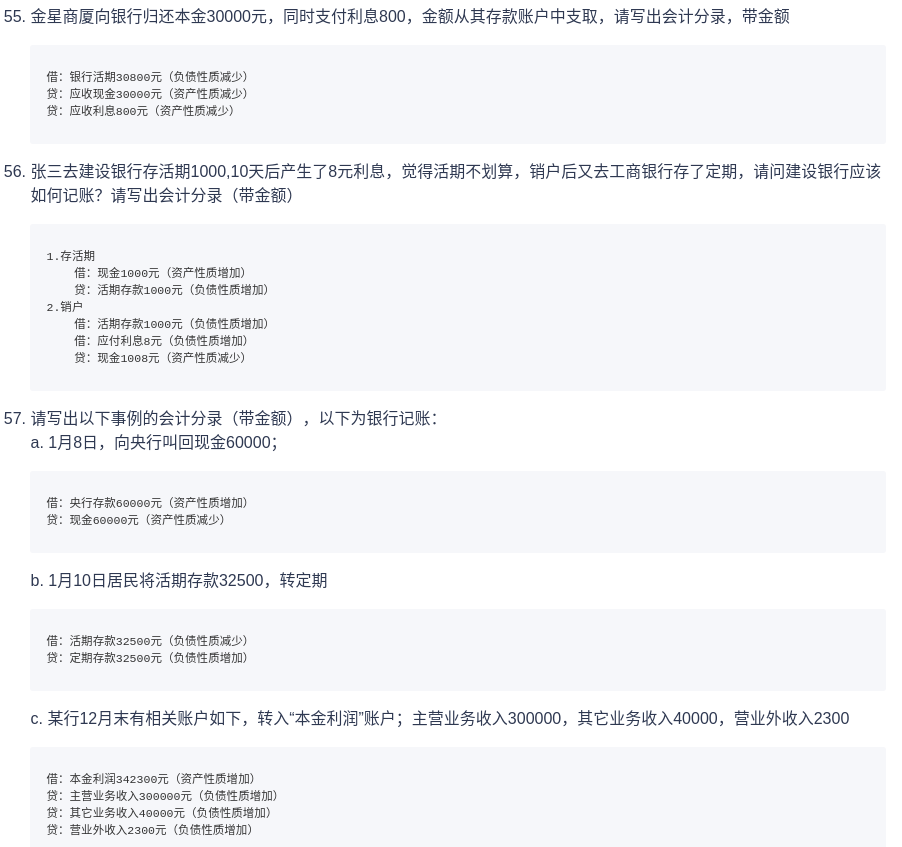
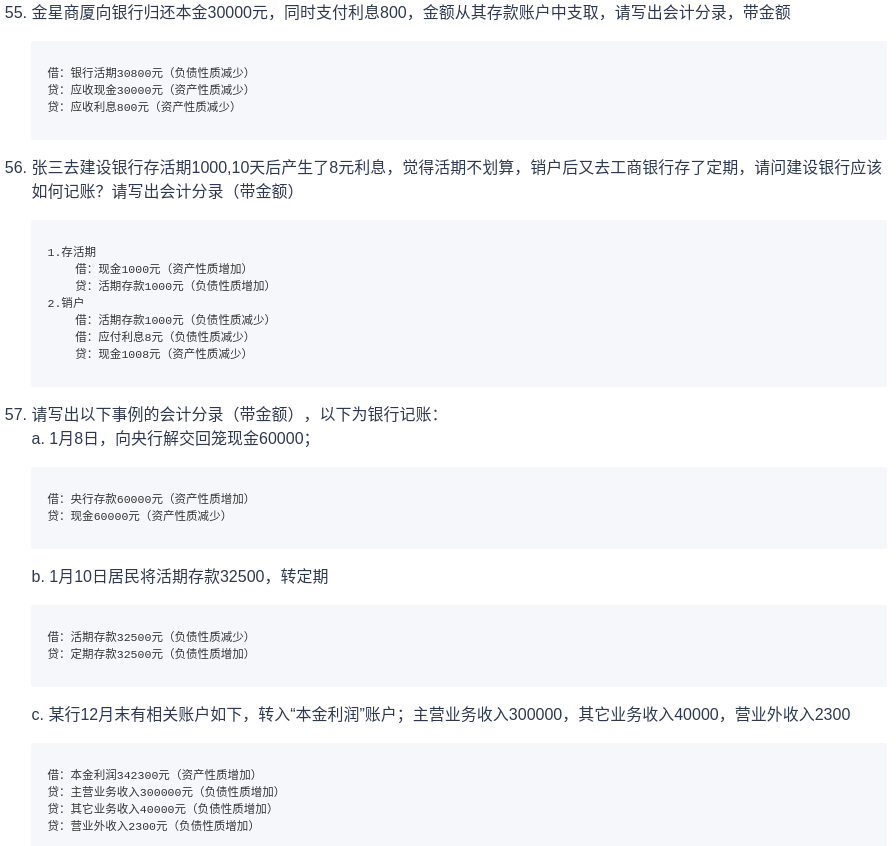
update 2020-12-23 09:55

diff --git a/source/_posts/DCITS.md b/source/_posts/DCITS.md
@@ -891,3 +891,121 @@ III类 | 同II类 | 限定金额的消费和缴费支付 | 账户余额不得超
 4. 逾期
     借：贷款-信用逾期贷款→资产性质的增加
     贷：贷款-信用贷款→资产性质的减少
+
+## 测试
+3. 所有者在企业资产中享有的经济效益是<u>**C.所有者权益**</u>
+4. 企业为取得收入而消耗的资产货币数额称为<u>**C.费用**</u>
+5. 开户单位之间的经济往来，除按规定的范围可以使用现金外，应当通过(<u>**C.开户银行**</u>)进行转账结束？
+6. 非盈利性单位经常用那种原则记账？<u>**D.收付实现制**</u>  权责发生制 应收应付制 划分收益性支出和资本性支出 收付实现制
+7. 汇票按照付款人不同，划分为？<u>**B.银行汇票和商业汇票**</u>
+8. 应收、应付、实收、实付分别属于？<u>**资产、负债、负债、资产**</u> 
+9. 负债的形成一定是由于？<u>**C.过去的交易、事项形成的现时义务**</u>
+10. 下列各项中，不属于资产类科目的是？<u>**B.预收账款**</u>
+11. 下列关于所有者权益类账户结构的表述中，正确的是？<u>**C.增加记贷方**</u>
+12. 企业库存现金账户期初余额为5000，本期增加发生额为3000，期末余额为2000，则本期减少发生额为()元？<u>**D.6000**</u>
+13. 我国现行的金融体制是以()为中央银行，国有商业银行为主体，各种金融并存...？<u>**C.人民银行**</u>
+14. 商业承兑汇票是由()印发和()承兑的？<u>**B.在银行开立账户的法人或其他组织、企业**</u>
+15. 支票是出票人签发的，委托办理支票存款业务的银行会其它金融机构在见票是()确定的金额给收款人或持票人的票据？<u>**D.无条件支付**</u>
+16. 票据贴现中再贴现的是？<u>**商业银行将汇票转让中央银行**</u>
+17. 下列哪项不是支票的种类？<u>**C.银行支票**</u>
+18. 银行最基本的职能是？<u>**D.信用中介**</u>
+19. ()是出票人（企业或银行）签发的，委托付款人在见票时或者在指定日期无条件支付确定的给收款人或持票人的票据？<u>**B.汇票**</u>
+20. 当商业银行在计算定期存款利息额时，采用()计算原则？<u>**C.都不是**</u>
+21. 个人账户张三于xxxx时间开立定活两使账户，一年后利率为？<u>**B.一年整存整取利率的0.6**</u>
+22. 下列哪个存款产品的特点是“利率较高，但受时间限制，一旦支取，损失巨大”？<u>**C.整存整取**</u>
+23. 以下不是教育储蓄的特点？<u>**B.取期灵活**</u>
+24. 以下哪种情况按照活期利率计息？<u>**A.通知存款未到通知期提前**</u>
+25. 存本取利的计息方式不包括？<u>**D.全部提前支取，从支取日其按活期**</u>
+26. 个人银行账户可分为？<u>**D.三类**</u>
+27. 银行卡的核心功能是？<u>**C.存款功能**</u>
+28. 贷款正常利息计算公式？<u>**C.贷款本金“天数”日利率**</u>
+29. 商业银行贷款资产根据贷款对象分为：<u>**B.工业、商业、农业、消费贷款**</u>
+30. 以下哪一项不是银团贷款的主要特点？<u>**B.贷款对象主要是中小企业**</u>
+31. 在编写会计分录时，对于损益类科目，余额增加记为借，余额减少记为贷（<font color=#FF000>X</font>）
+32. 会计科目是对会计要素的具体内容进行分类核算的项目，是进行会计核算和提供会计信息的基础（<font color=#00FF00>V</font>）
+33. 根据核算的经济内容不同，账户分为资产类、负债类、共同类、所有者权益、成本类和损益类账户（<font color=#00FF00>V</font>）
+34. 账户的功能在于连续、系统、完整地提供企业经济活动中各会计要素增减变动及其结果的目标信息（<font color=#00FF00>V</font>）
+35. 在借贷记账发下，借是表示增加，还是贷是增加，取决于账户的性质与所记录的经济内容的性质（<font color=#00FF00>V</font>）
+36. 单位定期存款利息的计算，其存款按对年、月、日计算，对年360,，对月按30，存期内利息按存入日的利率（<font color=#00FF00>V</font>）
+37. 由于活期存款余额变动较频繁，银行实际工作中通常采用累计日积数计息法计算利息（<font color=#00FF00>V</font>）
+38. 存款人不得违反规定在多家银行机构开立基本账户，但允许在同一银行的几个分支机构开立一般存款账户（<font color=#FF000>X</font>）
+39. 单位活期存款的利息计算采取利随本清的方法，而单位定期存款的利息则一般采取按季度计息的办法（<font color=#FF000>X</font>）
+40. 活期存款计算利息天数时，应遵循“算头又算尾”的方式...（<font color=#FF000>X</font>）
+41. 一般存款账户不能办理现金支取业务（<font color=#00FF00>V</font>）
+42. 个人通知存款是由账户一次存入本金，在有限的次数内支取款项，取款时需提前一天或七天通知银行（<font color=#00FF00>V</font>）
+43. 活期储蓄存款每季结息一次，结息日为季末月20日（<font color=#FF000>X</font>）
+44. 单位定期存款应在到期时一次支取，如到期不取，过期部分按活期利率（<font color=#00FF00>V</font>）
+45. 定活两便储蓄存款是指整笔存入，不约定存期，可随时续存续取，银行根据客户存款的实际存款按规定计息的一种储蓄（<font color=#00FF00>V</font>）
+46. 目前整存整取存期分为三个月、半年、一年、二年、三年和五年六个档次（<font color=#00FF00>V</font>）
+47. II类账户开户必须在传统柜面进行身份验证（<font color=#FF000>X</font>）
+48. 贷款损失准备是属于银行负债类科目（<font color=#FF000>X</font>）
+49. 等额本息是按照每个固定还款日进行还款相同的利息（<font color=#FF000>X</font>）
+50. 贷款担保包括三种具体方式即保证、抵押和质押，贷款由相应形成三种形式，即保证贷款、抵押贷款和质押贷款（<font color=#00FF00>V</font>）
+51. 请描述一下银行贷款的主要业务流程
+```text
+贷款申请 → 贷款评估 → 贷款调查 → 贷款审批 → 签订贷款合同 → 贷款发放 → 贷后检查 → 贷款归还
+```
+
+52. 简要描述会计的4个前提
+```text
+1.会计主体：是会计工作为其服务的特定单位或组织；
+2.持续经营：是指会计主体生产经营活动在可预见的未来将延续下去，不会进行清算；
+3.会计期间：是指将会计主体持续不断的经济活动分割为一定的期间；
+4.货币计量：是指会计主体在会计核算过程中采用货币作为计量单位，记录、反映会计主体的经营情况。
+```
+
+53. 银行的营业收入包括哪些？
+```text
+1.利息收入
+2.金融机构往来利息收入
+3.租赁收入
+4.房地产开发收入
+5.担保收入
+6.手续费收入
+7.证券买卖收入
+8.外汇收入
+```
+
+54. 某储户于2004年3月5日存本取息20000元，存期3年，年利率3.6%，约定三个月取一次利息，问每次取息金额？问储户已支取三次利息，于2004年12月10日提前支取如何计算利息和扣息？（活期利率0.9%），要求写出计算工程
+```text
+每次取息：20000 * 3.6% / 12 * 3 = 180（元）
+活期利息：20000 * 280 * 0.9% / 360 = 140（元）
+扣息：180 * 3 - 140 = 400（元）
+```
+
+55. 金星商厦向银行归还本金30000元，同时支付利息800，金额从其存款账户中支取，请写出会计分录，带金额
+```text
+借：银行活期30800元（负债性质减少）
+贷：应收现金30000元（资产性质减少）
+贷：应收利息800元（资产性质减少）
+```
+
+56. 张三去建设银行存活期1000,10天后产生了8元利息，觉得活期不划算，销户后又去工商银行存了定期，请问建设银行应该如何记账？请写出会计分录（带金额）
+```text
+1.存活期
+    借：现金1000元（资产性质增加）
+    贷：活期存款1000元（负债性质增加）
+2.销户
+    借：活期存款1000元（负债性质减少）
+    借：应付利息8元（负债性质减少）
+    贷：现金1008元（资产性质减少）
+```
+
+57. 请写出以下事例的会计分录（带金额），以下为银行记账：
+    a. 1月8日，向央行解交回笼现金60000；
+    ```text
+    借：央行存款60000元（资产性质增加）
+    贷：现金60000元（资产性质减少）
+    ```
+    b. 1月10日居民将活期存款32500，转定期
+    ```text
+    借：活期存款32500元（负债性质减少）
+    贷：定期存款32500元（负债性质增加）
+    ```
+    c. 某行12月末有相关账户如下，转入“本金利润”账户；主营业务收入300000，其它业务收入40000，营业外收入2300
+    ```text
+    借：本金利润342300元（资产性质增加）
+    贷：主营业务收入300000元（负债性质增加）
+    贷：其它业务收入40000元（负债性质增加）
+    贷：营业外收入2300元（负债性质增加）
+    ```
